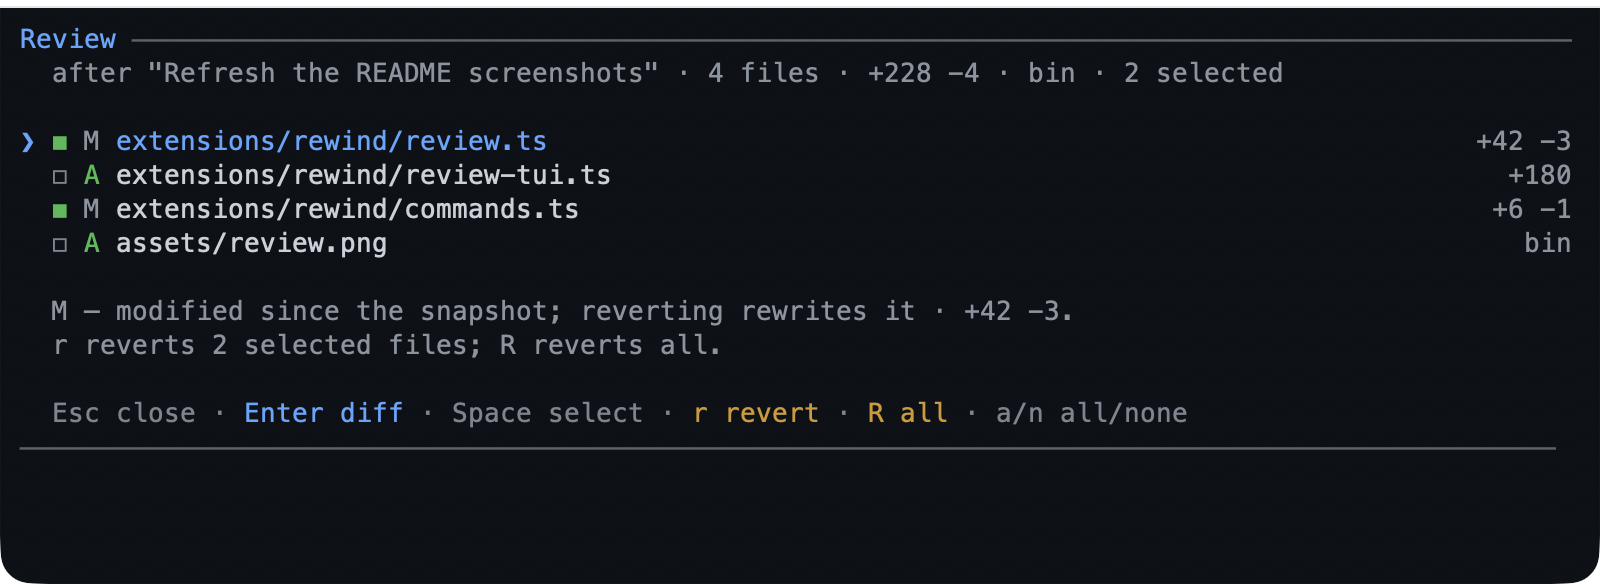
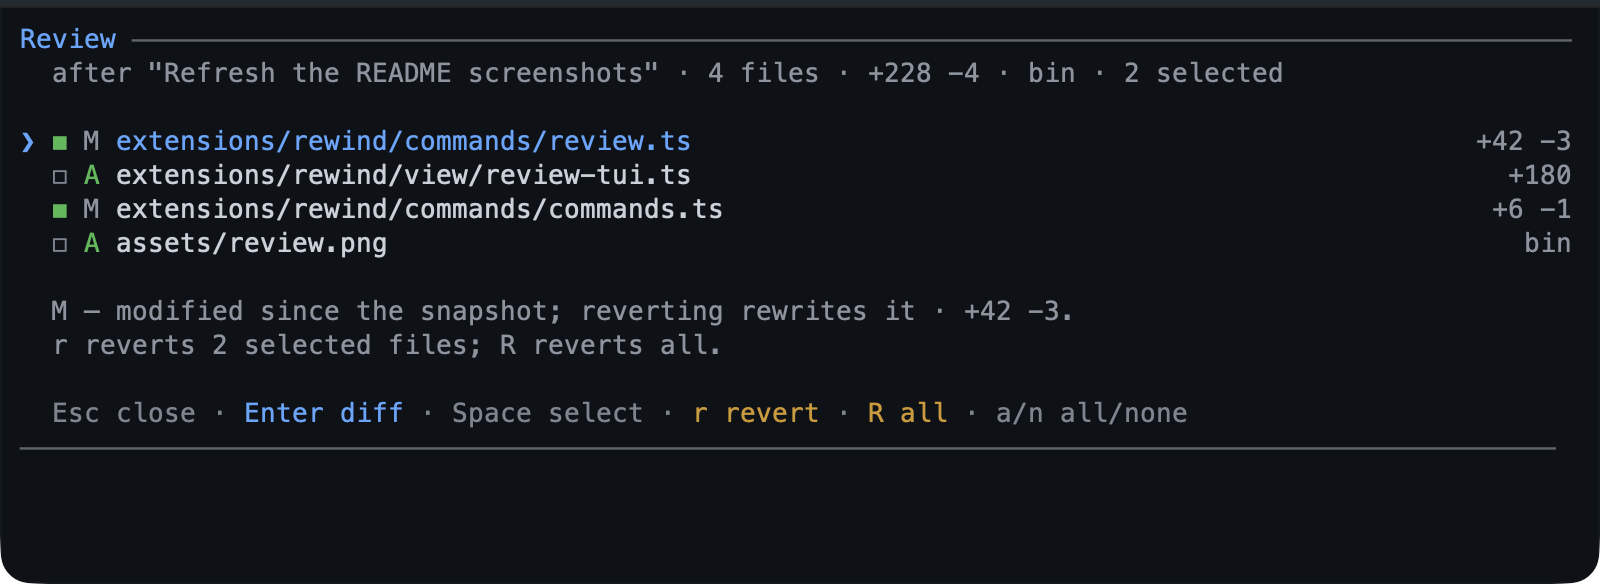
docs: show the moved rewind paths in the review screenshot
The review frame's fixture still named extensions/rewind/review.ts,
review-tui.ts and commands.ts, which the role-directory move retired, so
the captured screen showed paths the tree no longer has. The rows and
the two initial selections now name commands/ and view/, and
assets/review.png is re-captured from the shipped renderer.

rewind.png is untouched: the timeline screen the move did not change.

Changed region(s): [[0.0, 0.0, 1.0, 0.0308], [0.25, 0.2158, 0.4688, 0.3699]]

diff --git a/scripts/screens/fixtures/rewind.ts b/scripts/screens/fixtures/rewind.ts
@@ -85,8 +85,8 @@ export const REWIND_POINTS: RewindPoint[] = [
 
 /** The changed files the review screen shows after a documentation turn. */
 export const REVIEW_ENTRIES: ReviewEntry[] = [
-	{ path: "extensions/rewind/review.ts", change: "modified", added: 42, removed: 3 },
-	{ path: "extensions/rewind/review-tui.ts", change: "added", added: 180, removed: 0 },
-	{ path: "extensions/rewind/commands.ts", change: "modified", added: 6, removed: 1 },
+	{ path: "extensions/rewind/commands/review.ts", change: "modified", added: 42, removed: 3 },
+	{ path: "extensions/rewind/view/review-tui.ts", change: "added", added: 180, removed: 0 },
+	{ path: "extensions/rewind/commands/commands.ts", change: "modified", added: 6, removed: 1 },
 	{ path: "assets/review.png", change: "added", added: null, removed: null },
 ];

diff --git a/scripts/screens/index.ts b/scripts/screens/index.ts
@@ -236,7 +236,7 @@ export const SCREENS: Record<string, Screen> = {
 				entries: REVIEW_ENTRIES,
 				prompt: "Refresh the README screenshots",
 				theme,
-				initialSelected: ["extensions/rewind/review.ts", "extensions/rewind/commands.ts"],
+				initialSelected: ["extensions/rewind/commands/review.ts", "extensions/rewind/commands/commands.ts"],
 				onClose: noop,
 				requestRender: noop,
 				viewportRows: () => rows,
